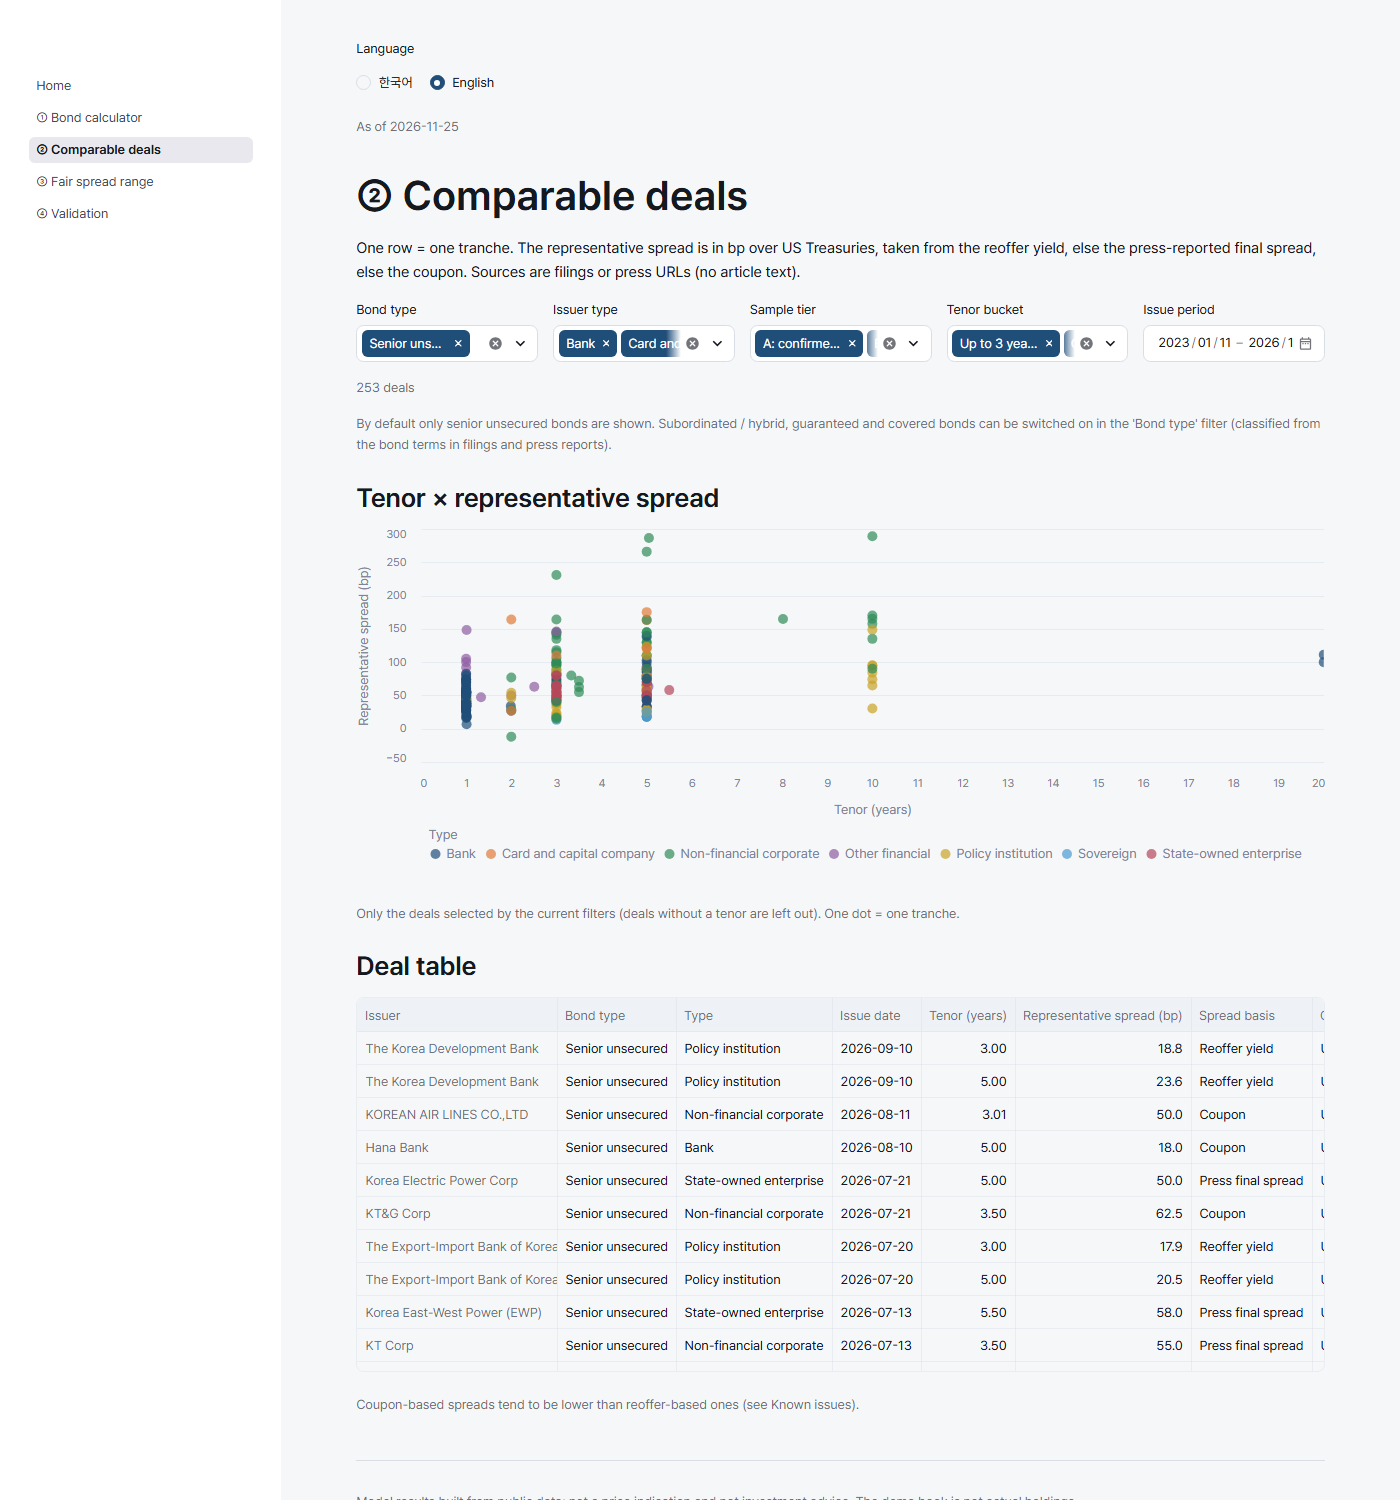
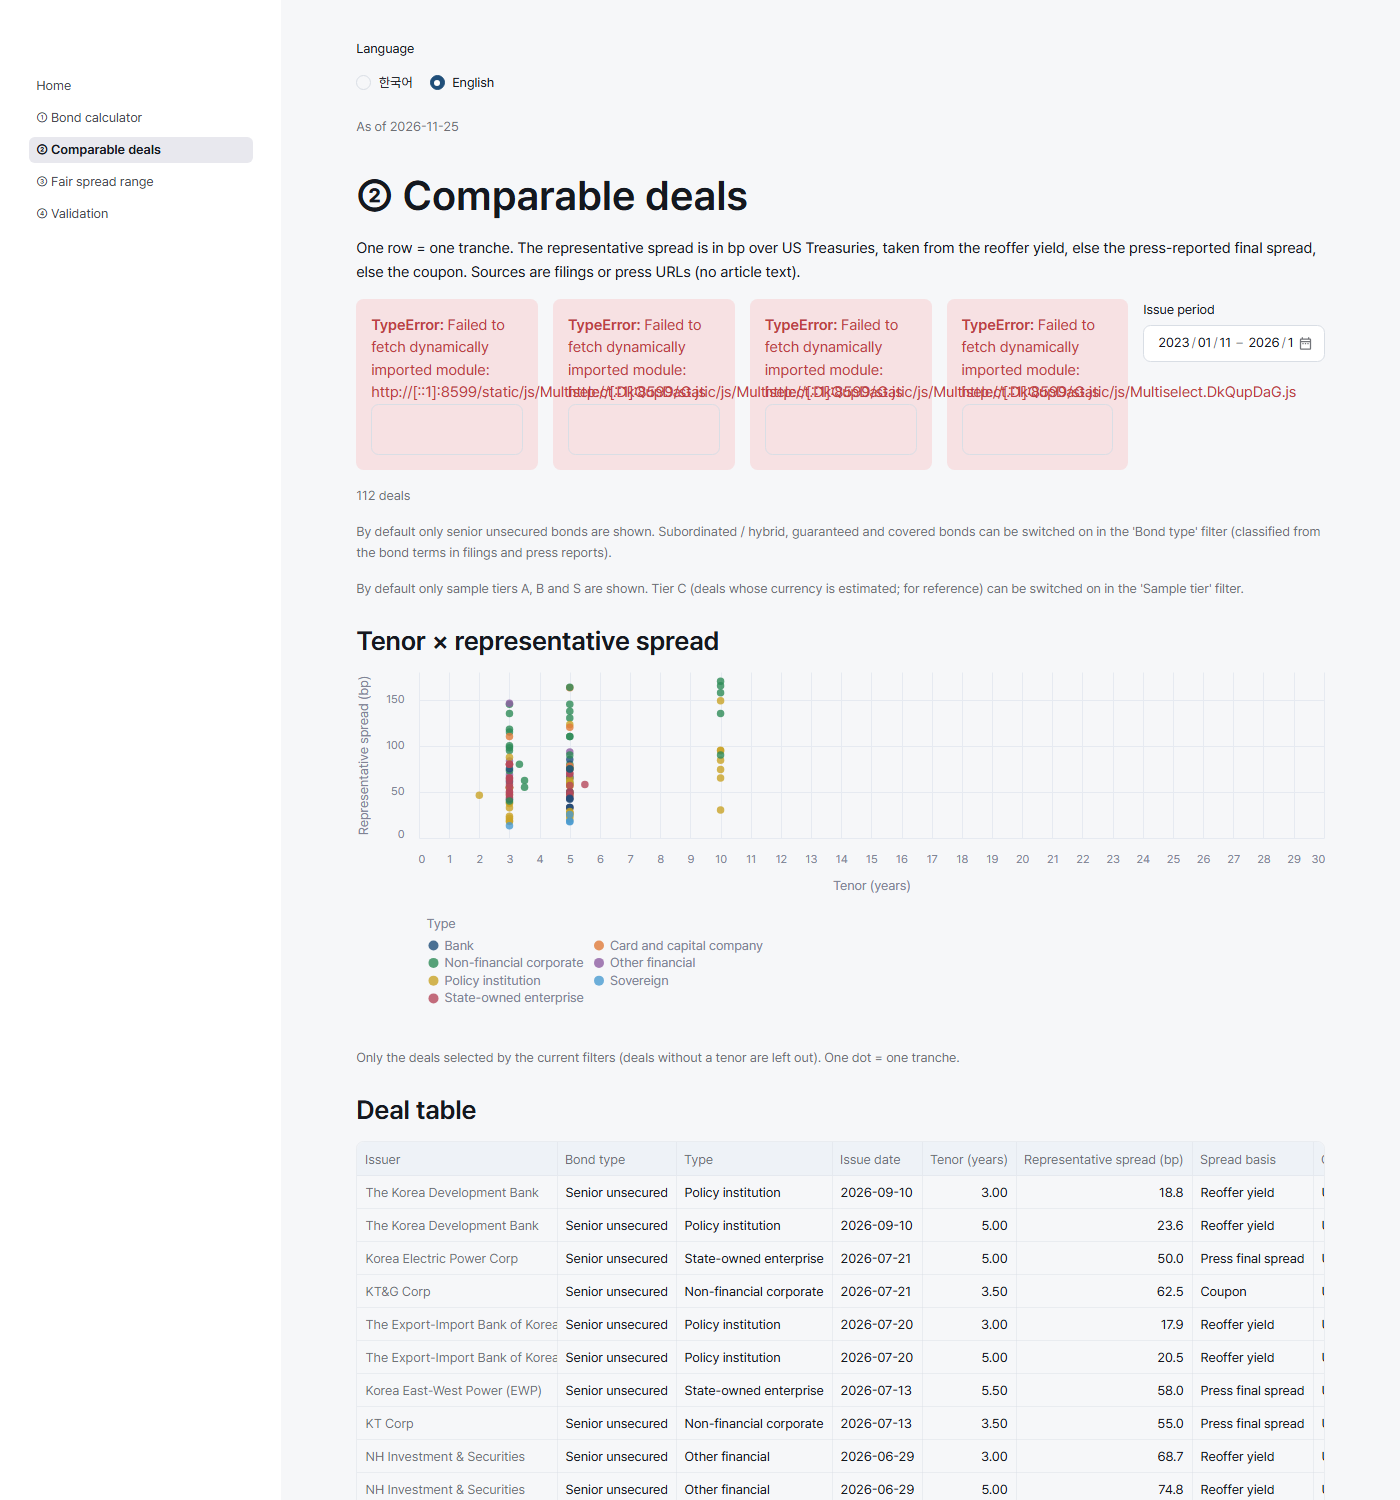
Comps: altair scatter (no wheel zoom, x 0-30y, legend below), default sample tiers A/B/S, sortable number text with '–', Known issue KI-17

diff --git a/app/views/comps.py b/app/views/comps.py
@@ -2,13 +2,14 @@
 
 from datetime import date
 
+import altair as alt
 import pandas as pd
 import streamlit as st
 
 from app.i18n import current_lang, t, t_or
 from app.lib import data as D
 from app.lib import ui
-from app.lib.keys import BUCKETS, NATURE_DEFAULT, NATURES, TIER_ORDER
+from app.lib.keys import BUCKETS, NATURE_DEFAULT, NATURES, TIER_DEFAULT, TIER_ORDER
 
 
 def tenor_bucket(x) -> str:
@@ -58,7 +59,8 @@ with f1:
     sel_type = st.multiselect(t("a_f_type"), options=types, default=types, key=ui.wkey("comps_type"),
                               format_func=ui.labels(types, lambda v: t_or(f"a_type_{v}", v)))
 with f2:
-    sel_tier = st.multiselect(t("a_f_tier"), options=tiers, default=tiers, key=ui.wkey("comps_tier"),
+    tier_default = [x for x in TIER_DEFAULT if x in tiers] or tiers  # fixes R3-10: C (estimated currency) is off by default
+    sel_tier = st.multiselect(t("a_f_tier"), options=tiers, default=tier_default, key=ui.wkey("comps_tier"),
                               format_func=ui.labels(tiers, lambda v: t_or(f"a_tier_{v}", v)))
 with f3:
     sel_bucket = st.multiselect(t("a_f_tenor"), options=buckets, default=buckets, key=ui.wkey("comps_bucket"),
@@ -73,31 +75,47 @@ view = deals[m].sort_values(["issue_date", "deal_key"], ascending=[False, True])
 
 st.caption(t("a_comps_count", n=len(view)))
 st.caption(t("a_comps_nature_note"))
+st.caption(t("a_comps_tier_note"))
 if view.empty:
     st.info(t("a_comps_empty"))
 else:
     name_col = "issuer_name_ko" if current_lang() == "ko" else "issuer_name_en"
     type_lbl = view["issuer_type"].map(lambda v: t_or(f"a_type_{v}", str(v)))
-    # ---------------- chart (fixes R3-9): tenor x representative spread, colour = issuer type, current filters
+    # ---------------- chart (fixes R3-9, R3-10): tenor x representative spread, colour = issuer type, current filters.
+    # altair without .interactive(): no wheel zoom / pan, so the page scroll is not captured by the chart. x fixed 0-30 years
+    # (points outside are clipped), legend below the plot so a narrow screen does not cut it.
     st.subheader(t("a_chart_title"))
-    chart = pd.DataFrame({t("a_col_tenor"): view["tenor_years"].astype(float), t("a_col_spread"): view["rep_spread_bp"].astype(float),
-                          t("a_col_type"): type_lbl}).dropna(subset=[t("a_col_tenor"), t("a_col_spread")])
-    st.scatter_chart(chart, x=t("a_col_tenor"), y=t("a_col_spread"), color=t("a_col_type"),
-                     x_label=t("a_col_tenor"), y_label=t("a_col_spread"), height=360)
+    chart = pd.DataFrame({"x": view["tenor_years"].astype(float), "y": view["rep_spread_bp"].astype(float),
+                          "kind": type_lbl, "who": view[name_col]}).dropna(subset=["x", "y"])
+    fig = (
+        alt.Chart(chart)
+        .mark_circle(size=56, opacity=0.8, clip=True)
+        .encode(
+            x=alt.X("x:Q", title=t("a_col_tenor"), scale=alt.Scale(domain=[0, 30], nice=False)),
+            y=alt.Y("y:Q", title=t("a_col_spread")),
+            color=alt.Color("kind:N", title=t("a_col_type"),
+                            legend=alt.Legend(orient="bottom", direction="horizontal", columns=2, labelLimit=220)),
+            tooltip=[alt.Tooltip("who:N", title=t("a_col_issuer")), alt.Tooltip("kind:N", title=t("a_col_type")),
+                     alt.Tooltip("x:Q", title=t("a_col_tenor"), format=".2f"),
+                     alt.Tooltip("y:Q", title=t("a_col_spread"), format=".1f")],
+        )
+        .properties(height=360)
+    )
+    st.altair_chart(fig, width="stretch")
     st.caption(t("a_chart_note"))
-    # ---------------- table: important columns first; numbers as display text with fixed decimals, empty = '–'
+    # ---------------- table: important columns first; fixed decimals, empty = '–' (fixes R3-9, R3-10)
     st.subheader(t("a_comps_table"))
     out = pd.DataFrame({
         t("a_col_issuer"): view[name_col].tolist(),
         t("a_col_nature"): view["bond_nature"].map(lambda v: t_or(f"a_nature_{v}", "" if pd.isna(v) else str(v))).tolist(),
         t("a_col_type"): type_lbl.tolist(),
         t("a_col_issue_date"): ui.date_col(view["issue_date"]),
-        t("a_col_tenor"): ui.text_col(view["tenor_years"], ui.DEC["years"]),
+        t("a_col_tenor"): ui.sortable_text_col(view["tenor_years"], ui.DEC["years"]),
         t("a_col_spread"): view["rep_spread_bp"].astype(float).round(ui.DEC["bp"]).tolist(),
         t("a_col_basis"): view["rep_spread_basis"].map(lambda v: t_or(f"a_basis_{v}", "" if pd.isna(v) else str(v))).tolist(),
         t("a_col_ccy"): view["currency"].fillna(t("a_na")).tolist(),
-        t("a_col_coupon"): ui.text_col(view["coupon_pct"], ui.DEC["pct"]),
-        t("a_col_yield"): ui.text_col(view["reoffer_yield_pct"], ui.DEC["pct"]),
+        t("a_col_coupon"): ui.sortable_text_col(view["coupon_pct"], ui.DEC["pct"]),
+        t("a_col_yield"): ui.sortable_text_col(view["reoffer_yield_pct"], ui.DEC["pct"]),
         t("a_col_maturity"): ui.date_col(view["maturity"]),
         t("a_col_tier"): view["sample_tier"].tolist(),
         t("a_col_rating"): view["rating_bucket"].map(rating_label).tolist(),
@@ -105,11 +123,13 @@ else:
         t("a_col_key"): view["deal_key"].tolist(),
     })
     shown = [c for c in out.columns if c != t("a_col_key")]  # the stable key stays in the CSV, not on screen
+    # tenor / coupon / yield: equal-width text so '–' shows and a header click still sorts in numeric order (ui.sortable_
+    # text_col); the spread has no empty cell and stays a number column
     num_right = {t(k): st.column_config.TextColumn(alignment="right") for k in ("a_col_tenor", "a_col_coupon", "a_col_yield")}
     st.dataframe(out, hide_index=True, width="stretch", column_order=shown, column_config={
         **num_right,
-        t("a_col_issuer"): st.column_config.TextColumn(width="medium", pinned=True),
         t("a_col_spread"): st.column_config.NumberColumn(format="%.1f"),
+        t("a_col_issuer"): st.column_config.TextColumn(width="medium", pinned=True),
         t("a_col_ccy"): st.column_config.TextColumn(width="small"),
         t("a_col_tier"): st.column_config.TextColumn(width="small"),
         t("a_col_source"): st.column_config.LinkColumn(t("a_col_source"), display_text=t("a_source_link"), width="small"),

diff --git a/tests/test_app_pages.py b/tests/test_app_pages.py
@@ -13,6 +13,7 @@ import sys
 from datetime import date
 from pathlib import Path
 
+import pandas as pd
 import pytest
 
 ROOT = next(p for p in Path(__file__).resolve().parents if (p / "app" / "Home.py").exists())
@@ -159,8 +160,10 @@ def test_comps_filters_and_labels(monkeypatch):
     monkeypatch.setenv("KPD_APP_DATA", str(FIX / "data"))
     at = run_page("views/comps.py", "en")
     df = at.dataframe[0].value
-    assert len(df) == 5  # default bond type filter = senior unsecured only (fixes R3-8)
-    assert set(df["Bond type"]) == {"Senior unsecured"}
+    assert len(df) == 4  # defaults: senior unsecured only (fixes R3-8) and sample tiers A, B, S (fixes R3-10)
+    assert set(df["Bond type"]) == {"Senior unsecured"} and "C" not in set(df["Sample tier"])
+    at.multiselect(key="comps_tier_en").set_value(["A", "B", "S", "C"]).run()
+    assert len(at.dataframe[0].value) == 5
     at.multiselect(key="comps_nature_en").set_value(["senior", "sub_hybrid", "guaranteed"]).run()
     df = at.dataframe[0].value
     assert len(df) == 7
@@ -180,8 +183,10 @@ def test_comps_default_shows_every_senior_row(lang, data_env):
 
     deals = D.read_deals()
     at = run_page("views/comps.py", lang)
-    assert len(at.dataframe[0].value) == int((deals["bond_nature"] == "senior").sum())
+    default = (deals["bond_nature"] == "senior") & deals["sample_tier"].isin(["A", "B", "S"])  # fixes R3-8, R3-10
+    assert len(at.dataframe[0].value) == int(default.sum())
     at.multiselect(key=f"comps_nature_{lang}").set_value(sorted(set(deals["bond_nature"]))).run()
+    at.multiselect(key=f"comps_tier_{lang}").set_value(sorted(set(deals["sample_tier"]))).run()
     assert len(at.dataframe[0].value) == len(deals)
 
 
@@ -280,26 +285,41 @@ def test_home_glance_cards(lang, data_env):
 
 @pytest.mark.parametrize("lang", ["ko", "en"])
 def test_comps_chart_and_number_formats(lang, data_env):
-    """② has one scatter chart; numbers are display text with fixed decimals and '–' for empty (never None / nan)."""
+    """② has one chart (altair, no wheel zoom, x fixed 0-30, legend below); tenor / coupon / yield / spread stay numeric
+    (header sort by value, fixes R3-10); no 'None' / 'nan' text anywhere."""
+    import json
+
     from app.i18n import t
 
     at = run_page("views/comps.py", lang)
     assert not at.exception
-    assert len(at.get("vega_lite_chart")) == 1
+    charts = at.get("vega_lite_chart")
+    assert len(charts) == 1
+    spec = json.loads(charts[0].proto.spec)
+    assert "params" not in spec  # no selection / zoom-pan interaction
+    assert spec["encoding"]["x"]["scale"]["domain"] == [0, 30]
+    assert spec["encoding"]["color"]["legend"]["orient"] == "bottom"
     df = at.dataframe[0].value
-    shown = df.drop(columns=[t("a_col_source", _lang=lang)])  # link column: an empty link stays empty
-    cells = shown.map(str).to_numpy().ravel().tolist()
-    assert not any(c in ("None", "nan", "NaN", "<NA>", "NaT") for c in cells)
-    for col, nd in (("a_col_coupon", 3), ("a_col_yield", 3), ("a_col_tenor", 2)):
-        for v in df[t(col, _lang=lang)]:
-            assert v == "–" or re.fullmatch(rf"-?[\d,]+\.\d{{{nd}}}", v), (col, v)
+    assert pd.api.types.is_float_dtype(df[t("a_col_spread", _lang=lang)])
+    for col, nd in (("a_col_tenor", 2), ("a_col_coupon", 3), ("a_col_yield", 3)):
+        vals = df[t(col, _lang=lang)].tolist()
+        assert len({len(v) for v in vals}) <= 1, col  # equal width -> string sort = numeric sort
+        for v in vals:
+            assert v.strip() == "–" or re.fullmatch(rf"\d+\.\d{{{nd}}}", v.strip()), (col, v)
+    text = df.drop(columns=[t("a_col_source", _lang=lang)])
+    assert not any(c.strip() in ("None", "nan", "NaN", "<NA>", "NaT") for c in text.map(str).to_numpy().ravel().tolist())
 
 
-def test_comps_empty_value_shown_as_dash(monkeypatch):
-    monkeypatch.setenv("KPD_APP_DATA", str(FIX / "data"))
-    at = run_page("views/comps.py", "en")
-    df = at.dataframe[0].value
-    assert "–" in df["Coupon (%)"].tolist() and "–" in df["Reoffer yield (%)"].tolist()
+def test_sortable_text_col_dash_and_numeric_order():
+    """Empty -> '–'; equal-width text sorts like the numbers (ASCII space < digits; the browser collation was checked for
+    en / ko / de / ja in R3-10)."""
+    from app.lib import ui
+
+    col = ui.sortable_text_col([4.125, None, 12.0, 0.5, 10.25], 3)
+    assert [c.strip() for c in col] == ["4.125", "–", "12.000", "0.500", "10.250"]
+    assert len({len(c) for c in col}) == 1
+    nums = [c for c in col if c.strip() != "–"]
+    assert sorted(nums) == sorted(nums, key=float)
 
 
 def test_calculator_display_decimals(monkeypatch):

diff --git a/app/lib/ui.py b/app/lib/ui.py
@@ -79,6 +79,18 @@ def num(v, nd: int = 2, sep: bool = False) -> str:
 DEC = {"price": 4, "pct": 3, "bp": 1, "years": 2, "dur": 3}
 
 
+def sortable_text_col(values, nd: int) -> list[str]:
+    """Numbers as equal-width, right-aligned display text with nd decimals; empty -> '–' (fixes R3-10).
+
+    Why text and not a number column: Streamlit's table always draws an empty number cell as 'None' (the Styler's na_rep
+    is not used for empty cells), so '–' needs text. A click on a text column header sorts with the browser's string
+    comparison (localeCompare); padding every value with leading spaces to the same width makes that comparison follow
+    the numeric order (checked in en / ko / de / ja collation; empty cells come first). Values are non-negative here."""
+    texts = [t("a_na") if v is None or v != v else f"{float(v):.{nd}f}" for v in values]
+    width = max((len(x) for x in texts), default=0)
+    return [x.rjust(width) for x in texts]
+
+
 def text_col(values, nd: int, sep: bool = True) -> list[str]:
     """A column of numbers as display text with nd decimals and thousands separators; empty -> '–' (never None / nan)."""
     return [num(v, nd, sep) for v in values]

diff --git a/app/lib/keys.py b/app/lib/keys.py
@@ -14,6 +14,7 @@ ISSUER_TYPES = ("sovereign", "policy", "soe", "bank", "card_capital", "fin_other
 NATURES = ("senior", "sub_hybrid", "guaranteed", "covered")  # bond_nature codes (config/public.yaml fixes R3-8)
 NATURE_DEFAULT = ("senior",)  # comps table default: senior unsecured only; the user can switch the others on
 TIER_ORDER = ("A", "B", "S", "C")  # public sample tiers (config/public.yaml deals.csv)
+TIER_DEFAULT = ("A", "B", "S")  # comps table default (fixes R3-10): C = estimated currency, switched on by the user
 BUCKETS = (("a_tb_0_3", 0.0, 3.0), ("a_tb_3_5", 3.0, 5.0), ("a_tb_5_7", 5.0, 7.0), ("a_tb_7_10", 7.0, 10.0),
            ("a_tb_10p", 10.0, float("inf")))
 BASES = ("reoffer", "news_final", "coupon")  # rep_spread_basis values (config/p1d.yaml)

diff --git a/docs/KNOWN_ISSUES_ko.md b/docs/KNOWN_ISSUES_ko.md
@@ -43,3 +43,5 @@
 **KI-15 발행사 유형 분류.** 인천국제공항공사는 별칭 표에 없어 업종 코드로 비금융 기업으로 분류됐다(공기업이 아님). 바꾸면 그 발행사의 적정 스프레드 비교 묶음이 달라지므로 이번 기준일 판에서는 그대로 두었다. 보증채 사례는 비교표에 "보증채 발행사" 유형으로 나온다. 모델에는 보증채 유형 묶음이 없어, 보증채만 발행한 발행사(4곳)는 적정 스프레드 값이 없다(다른 선순위 사례가 있는 발행사는 그 사례의 유형으로 계산).
 
 **KI-16 영문 발행사 이름.** 별칭 표에 영문 이름이 없는 발행사는 DART 기업 영문명(등록된 대소문자 그대로), 회사 공식 영문명, 서류에 적힌 라틴 문자 이름을 쓴다. 한 곳(롯데오토리스, "Lotte Auto Lease")은 공식 확인 전 로마자 표기다. 출처는 이름마다 기록했다. 영문 견본에는 한글이 일부 남아 있다: 국문 이름 칸(Name (Korean)), 한국어 공시 원문의 계정 이름을 그대로 인용한 출처 칸, 일부 내부 발행사 코드 칸, 두 언어를 함께 쓴 고지·라벨(예: 가상 장부 꼬리표).
+
+**KI-17 롯데렌탈 2023-12-08 2년물의 쿠폰(확인 결과, 고치지 않음).** 비교표의 이 사례(표본 등급 C, 쿠폰 기준 대표 스프레드 −11.97bp)는 DART 사업보고서(접수번호 20240315000897) 사채 표의 이자율 4.44%를 쿠폰으로 썼다. 같은 보고서 파생상품 주석에는 DBS은행과의 통화스왑(USD 50,000,000, 만기 2025-12-08, 수취 SOFR+1.5%, 지급 4.44%)이 있고 "외화 사채의 외화 변동이자에 대해 원화 고정이자를 부담"한다고 적혀 있다. 따라서 이 채권은 미달러 변동금리채(SOFR+1.5%)이고 4.44%는 원화 스왑 고정금리일 가능성이 크다(보증 근거는 찾지 못함). 그렇다면 쿠폰 기준 스프레드는 의미가 없고, 변동금리채는 표본에서 빠져야 한다. 이번 기준일 판에서는 데이터 값을 바꾸지 않았다(C 등급은 비교표 기본 화면에 나오지 않음). DART 사채 표의 이자율이 스왑 뒤 금리인 사모 외화채가 더 있을 수 있다.

diff --git a/docs/KNOWN_ISSUES_en.md b/docs/KNOWN_ISSUES_en.md
@@ -43,3 +43,5 @@
 **KI-15 Issuer type classification.** Incheon International Airport Corporation is not in the alias table and was classified by its industry code as a non-financial corporate (not a state-owned enterprise). Changing it would change its fair-spread comparison group, so it was left as is for this as-of edition. Guaranteed deals appear in the comparison table with the type "guaranteed issuer". The model has no type group for guaranteed bonds, so issuers with only guaranteed deals (4) get no fair-spread value (issuers that also have senior deals are computed with the type of those deals).
 
 **KI-16 English issuer names.** Issuers without an English name in the alias table use the DART corporate English name (capitalisation as registered), the company's official English name, or the Latin-script name in the filing. One (Lotte Auto Lease) is a romanization not yet confirmed against an official source. The source is recorded for each name. Some Korean text remains in the English samples: the Korean-name field (Name (Korean)), source cells that quote account names from Korean filings verbatim, some internal issuer-code cells, and bilingual notices and labels (e.g. the demo-book tag).
+
+**KI-17 Coupon of the Lotte Rental 2-year deal of 2023-12-08 (checked, not changed).** This deal in the comparison table (sample tier C, coupon-based representative spread −11.97bp) uses the 4.44% interest rate of the bond table in the DART annual report (receipt no. 20240315000897) as its coupon. A derivatives note of the same report shows a cross-currency swap with DBS Bank (USD 50,000,000, maturing 2025-12-08, receive SOFR+1.5%, pay 4.44%) described as paying a fixed KRW rate against the floating foreign-currency interest of a foreign-currency bond. The bond is therefore most likely a USD floating-rate note (SOFR+1.5%) and 4.44% the fixed KRW swap rate (no evidence of a guarantee was found). If so, the coupon-based spread is not meaningful and the floating-rate note should leave the sample. Data values were not changed in this as-of edition (tier C is not shown in the default view of the table). Other privately placed foreign-currency bonds may also show a post-swap rate in the DART bond table.

diff --git a/README_en.md b/README_en.md
@@ -17,7 +17,7 @@ App: [https://kp-desk.streamlit.app](https://kp-desk.streamlit.app)
 | Page | Content |
 |---|---|
 | ① Bond calculator | Coupon, maturity, settlement and a yield or a price → price, yield, accrued interest, settlement amount, durations, convexity, DV01, and G-spread and Z-spread over the as-of Treasury curve |
-| ② Comparable deals | Terms, bond type and representative spread of each tranche with its filing or press source link; filters by bond type (default: senior unsecured), issuer type, sample tier, tenor and issue period |
+| ② Comparable deals | Terms, bond type and representative spread of each tranche with its filing or press source link; filters by bond type (default: senior unsecured), issuer type, sample tier (default: A, B, S), tenor and issue period, with a tenor × representative spread scatter |
 | ③ Fair spread range | Point estimate and range of the public mode's representative output (the N0 baseline), with its scorecard on the same page |
 | ④ Validation | Independent bond-engine check, demo-book valuation audit, one-time holdout evaluation, output audit, sample downloads |
 

diff --git a/README.md b/README.md
@@ -21,7 +21,7 @@ Built with Claude Code; results independently verified. English README: [README_
 | 화면 | 내용 |
 |---|---|
 | ① 채권 계산기 | 쿠폰·만기·결제일과 수익률 또는 가격 → 가격·수익률·경과이자·결제 금액·듀레이션·볼록성·DV01, 기준일 미국채 커브 대비 G-스프레드·Z-스프레드 |
-| ② 발행 사례 비교표 | 트랜치별 조건·채권 성격과 대표 스프레드, 공시·보도 출처 링크. 채권 성격(기본 선순위 무보증)·유형·표본 등급·만기·발행 기간 필터 |
+| ② 발행 사례 비교표 | 트랜치별 조건·채권 성격과 대표 스프레드, 공시·보도 출처 링크. 채권 성격(기본 선순위 무보증)·유형·표본 등급(기본 A·B·S)·만기·발행 기간 필터와 만기 × 대표 스프레드 산점도 |
 | ③ 적정 스프레드 범위 | 공개 모드 대표 출력(N0 기준선)의 점 추정·범위와 같은 화면의 성적표 |
 | ④ 검증 결과 | 채권 엔진 독립 대조, 가상 장부 평가 감사, 홀드아웃 1회 평가, 출력 감사, 견본 내려받기 |
 
